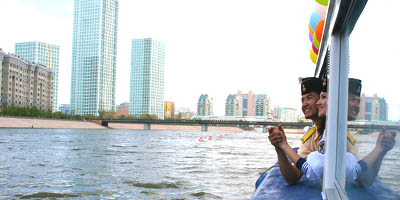
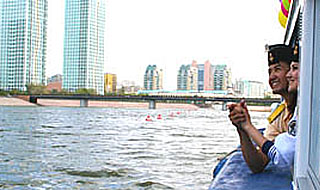
Edited tours images

diff --git a/css/main.css b/css/main.css
@@ -128,7 +128,7 @@ section {
 }
 
 #burabayTour .tour-photo {
-  background: url(../img/tours/burabay02.jpg) center center no-repeat;
+  background: url(../img/tours/burabay.jpg) center center no-repeat;
   background-size: cover;
 }
 
